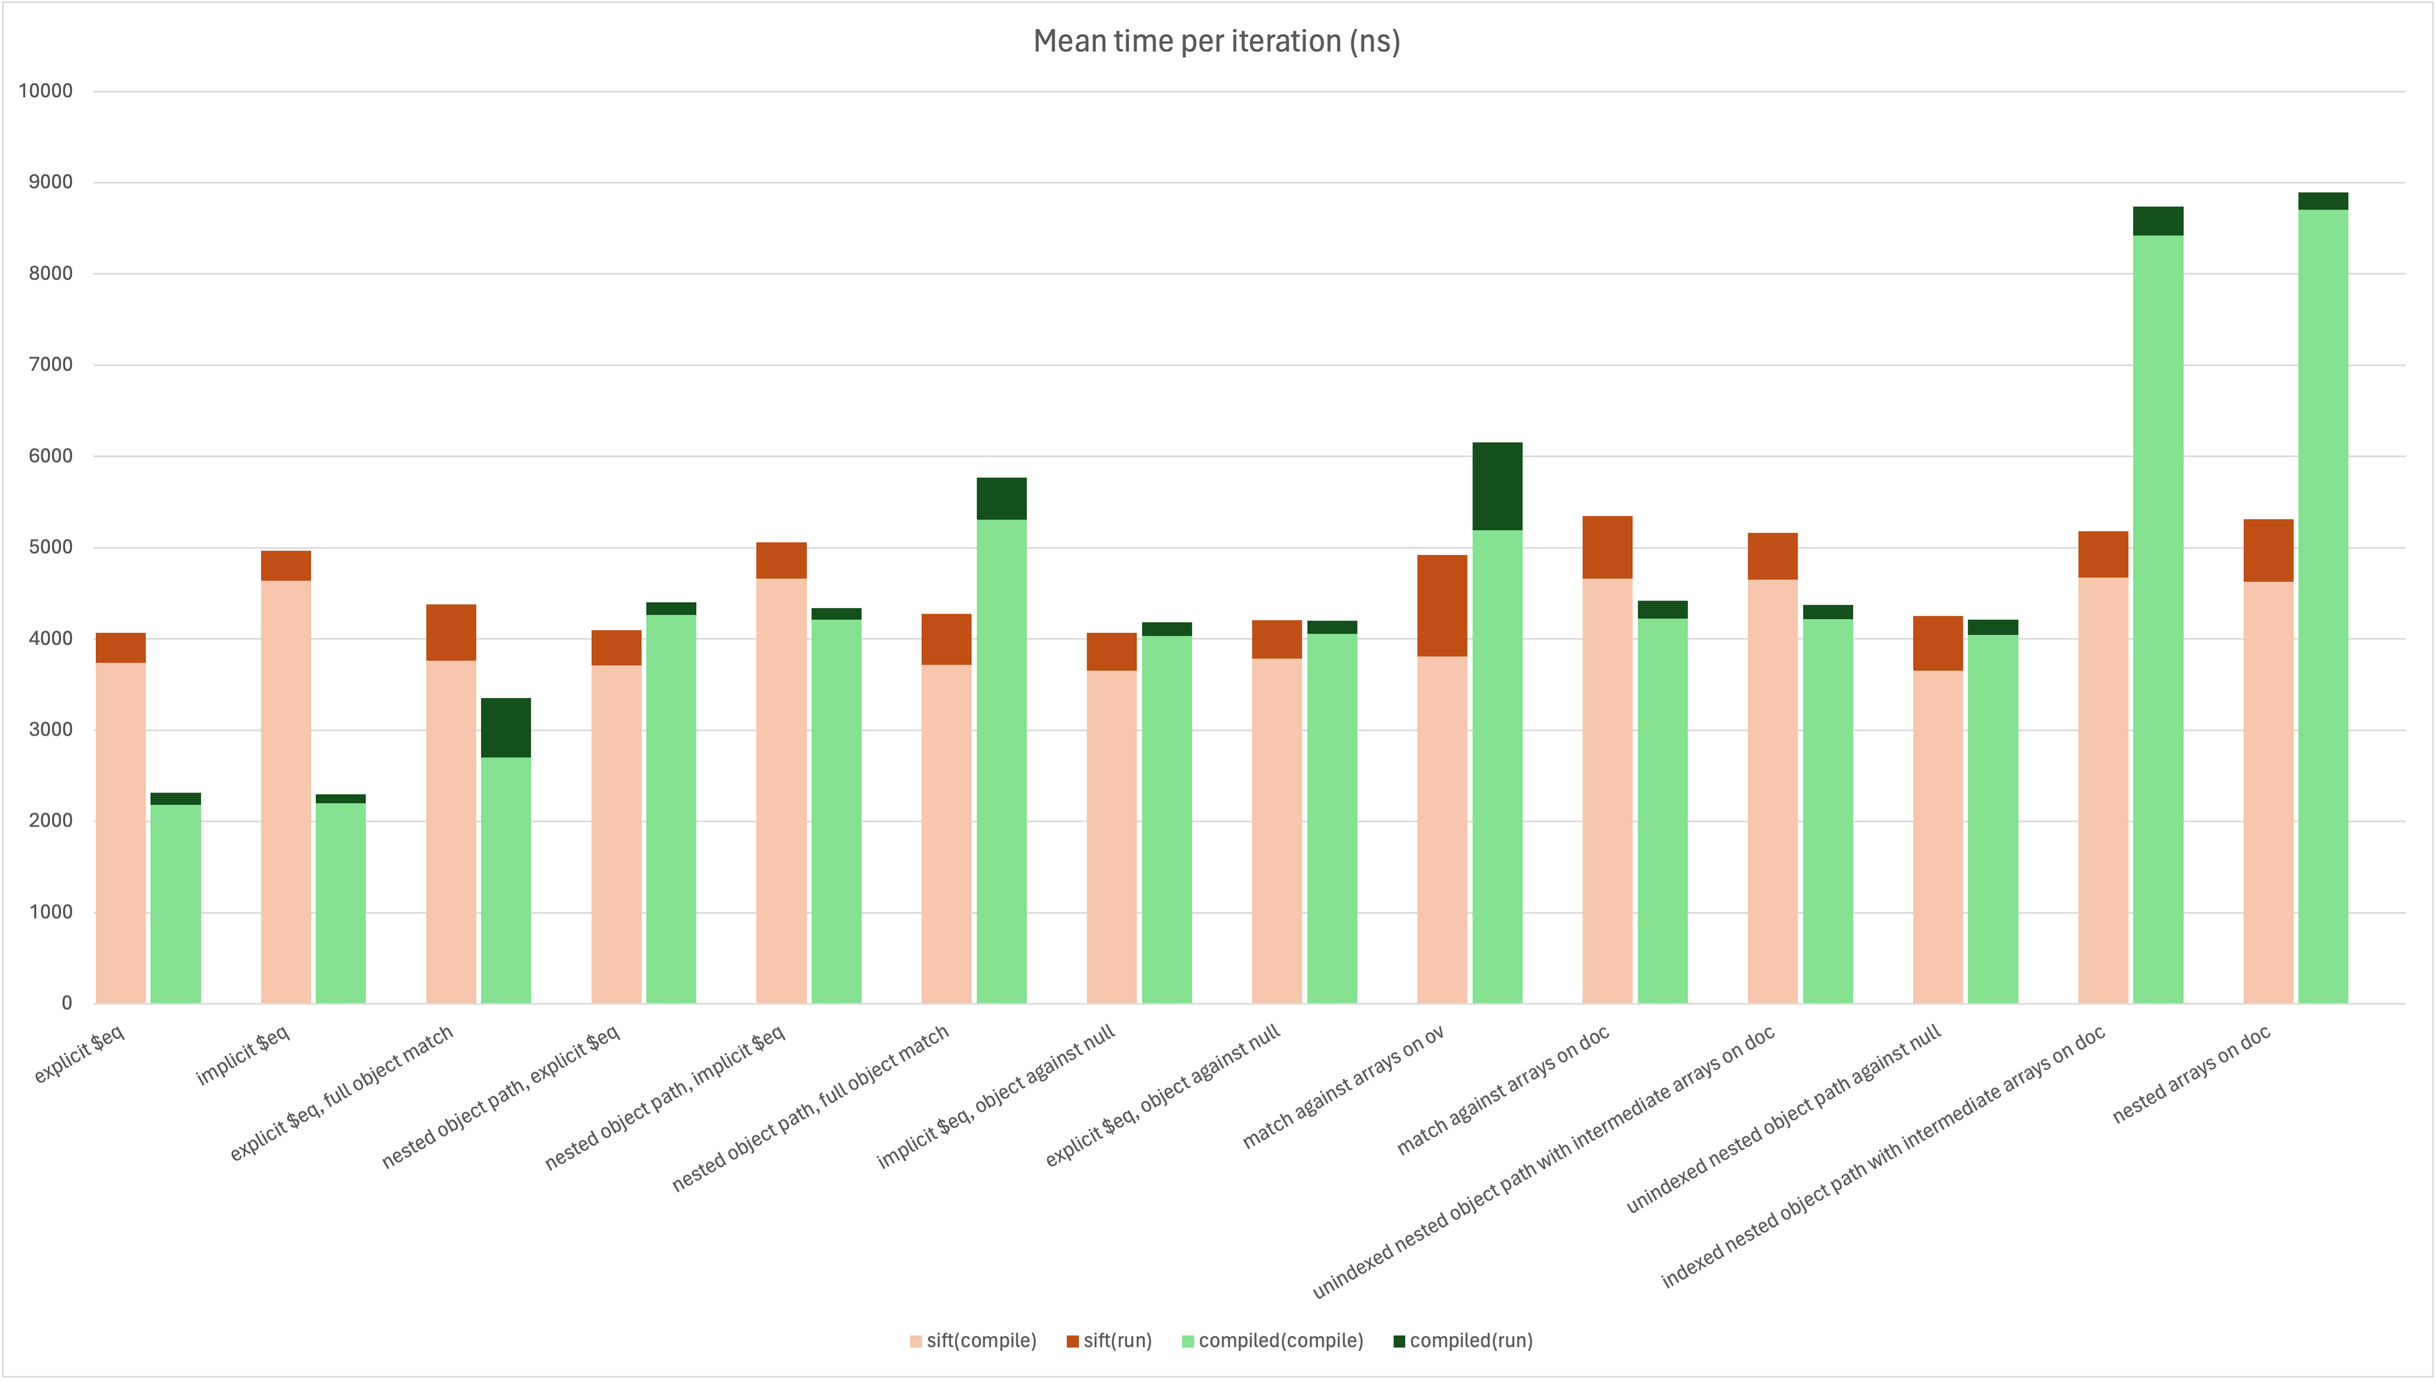
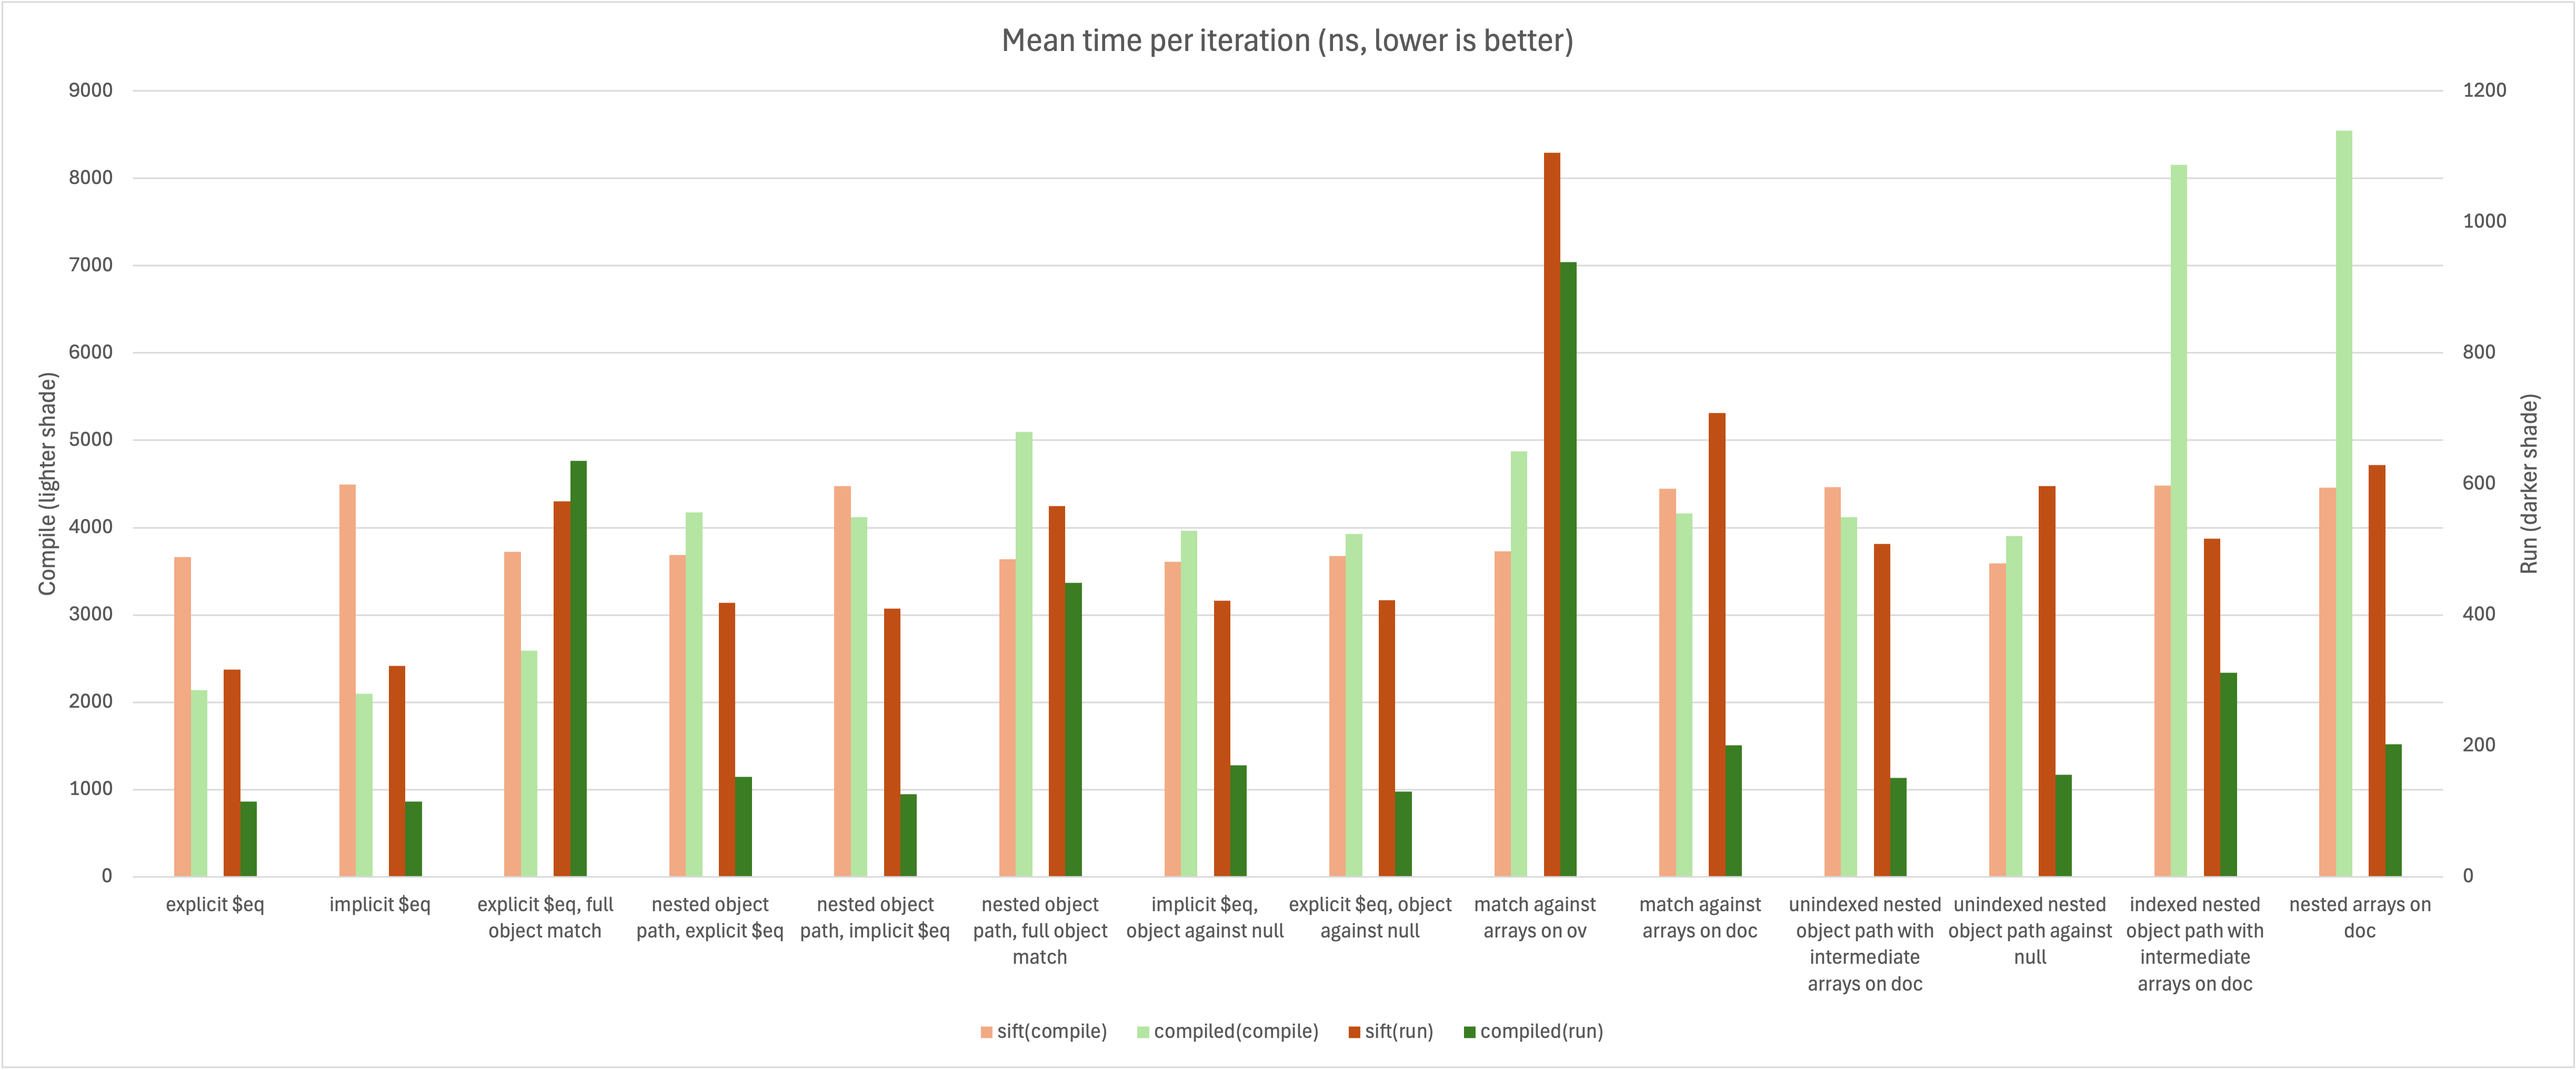
feat: split compile and run time in chart (#2)

diff --git a/benchmark/run.ts b/benchmark/run.ts
@@ -286,12 +286,8 @@ function runBench(cases: BenchCase[]) {
 
 		if (CSV) {
 			console.log(
-				`"${sift.name}",${sift.histogram.mean},${siftCompile.histogram.mean},${siftRun.histogram.mean},,,`,
+				`"${sift.name}",${sift.histogram.mean},${siftCompile.histogram.mean},${siftRun.histogram.mean},${compiled.histogram.mean},${compiledCompile.histogram.mean},${compiledRun.histogram.mean}`,
 			);
-			console.log(
-				`,,,,${compiled.histogram.mean},${compiledCompile.histogram.mean},${compiledRun.histogram.mean}`,
-			);
-			console.log("");
 		} else {
 			const { name, histogram: siftHistogram } = sift;
 			const { histogram: compiledHistogram } = compiled;
